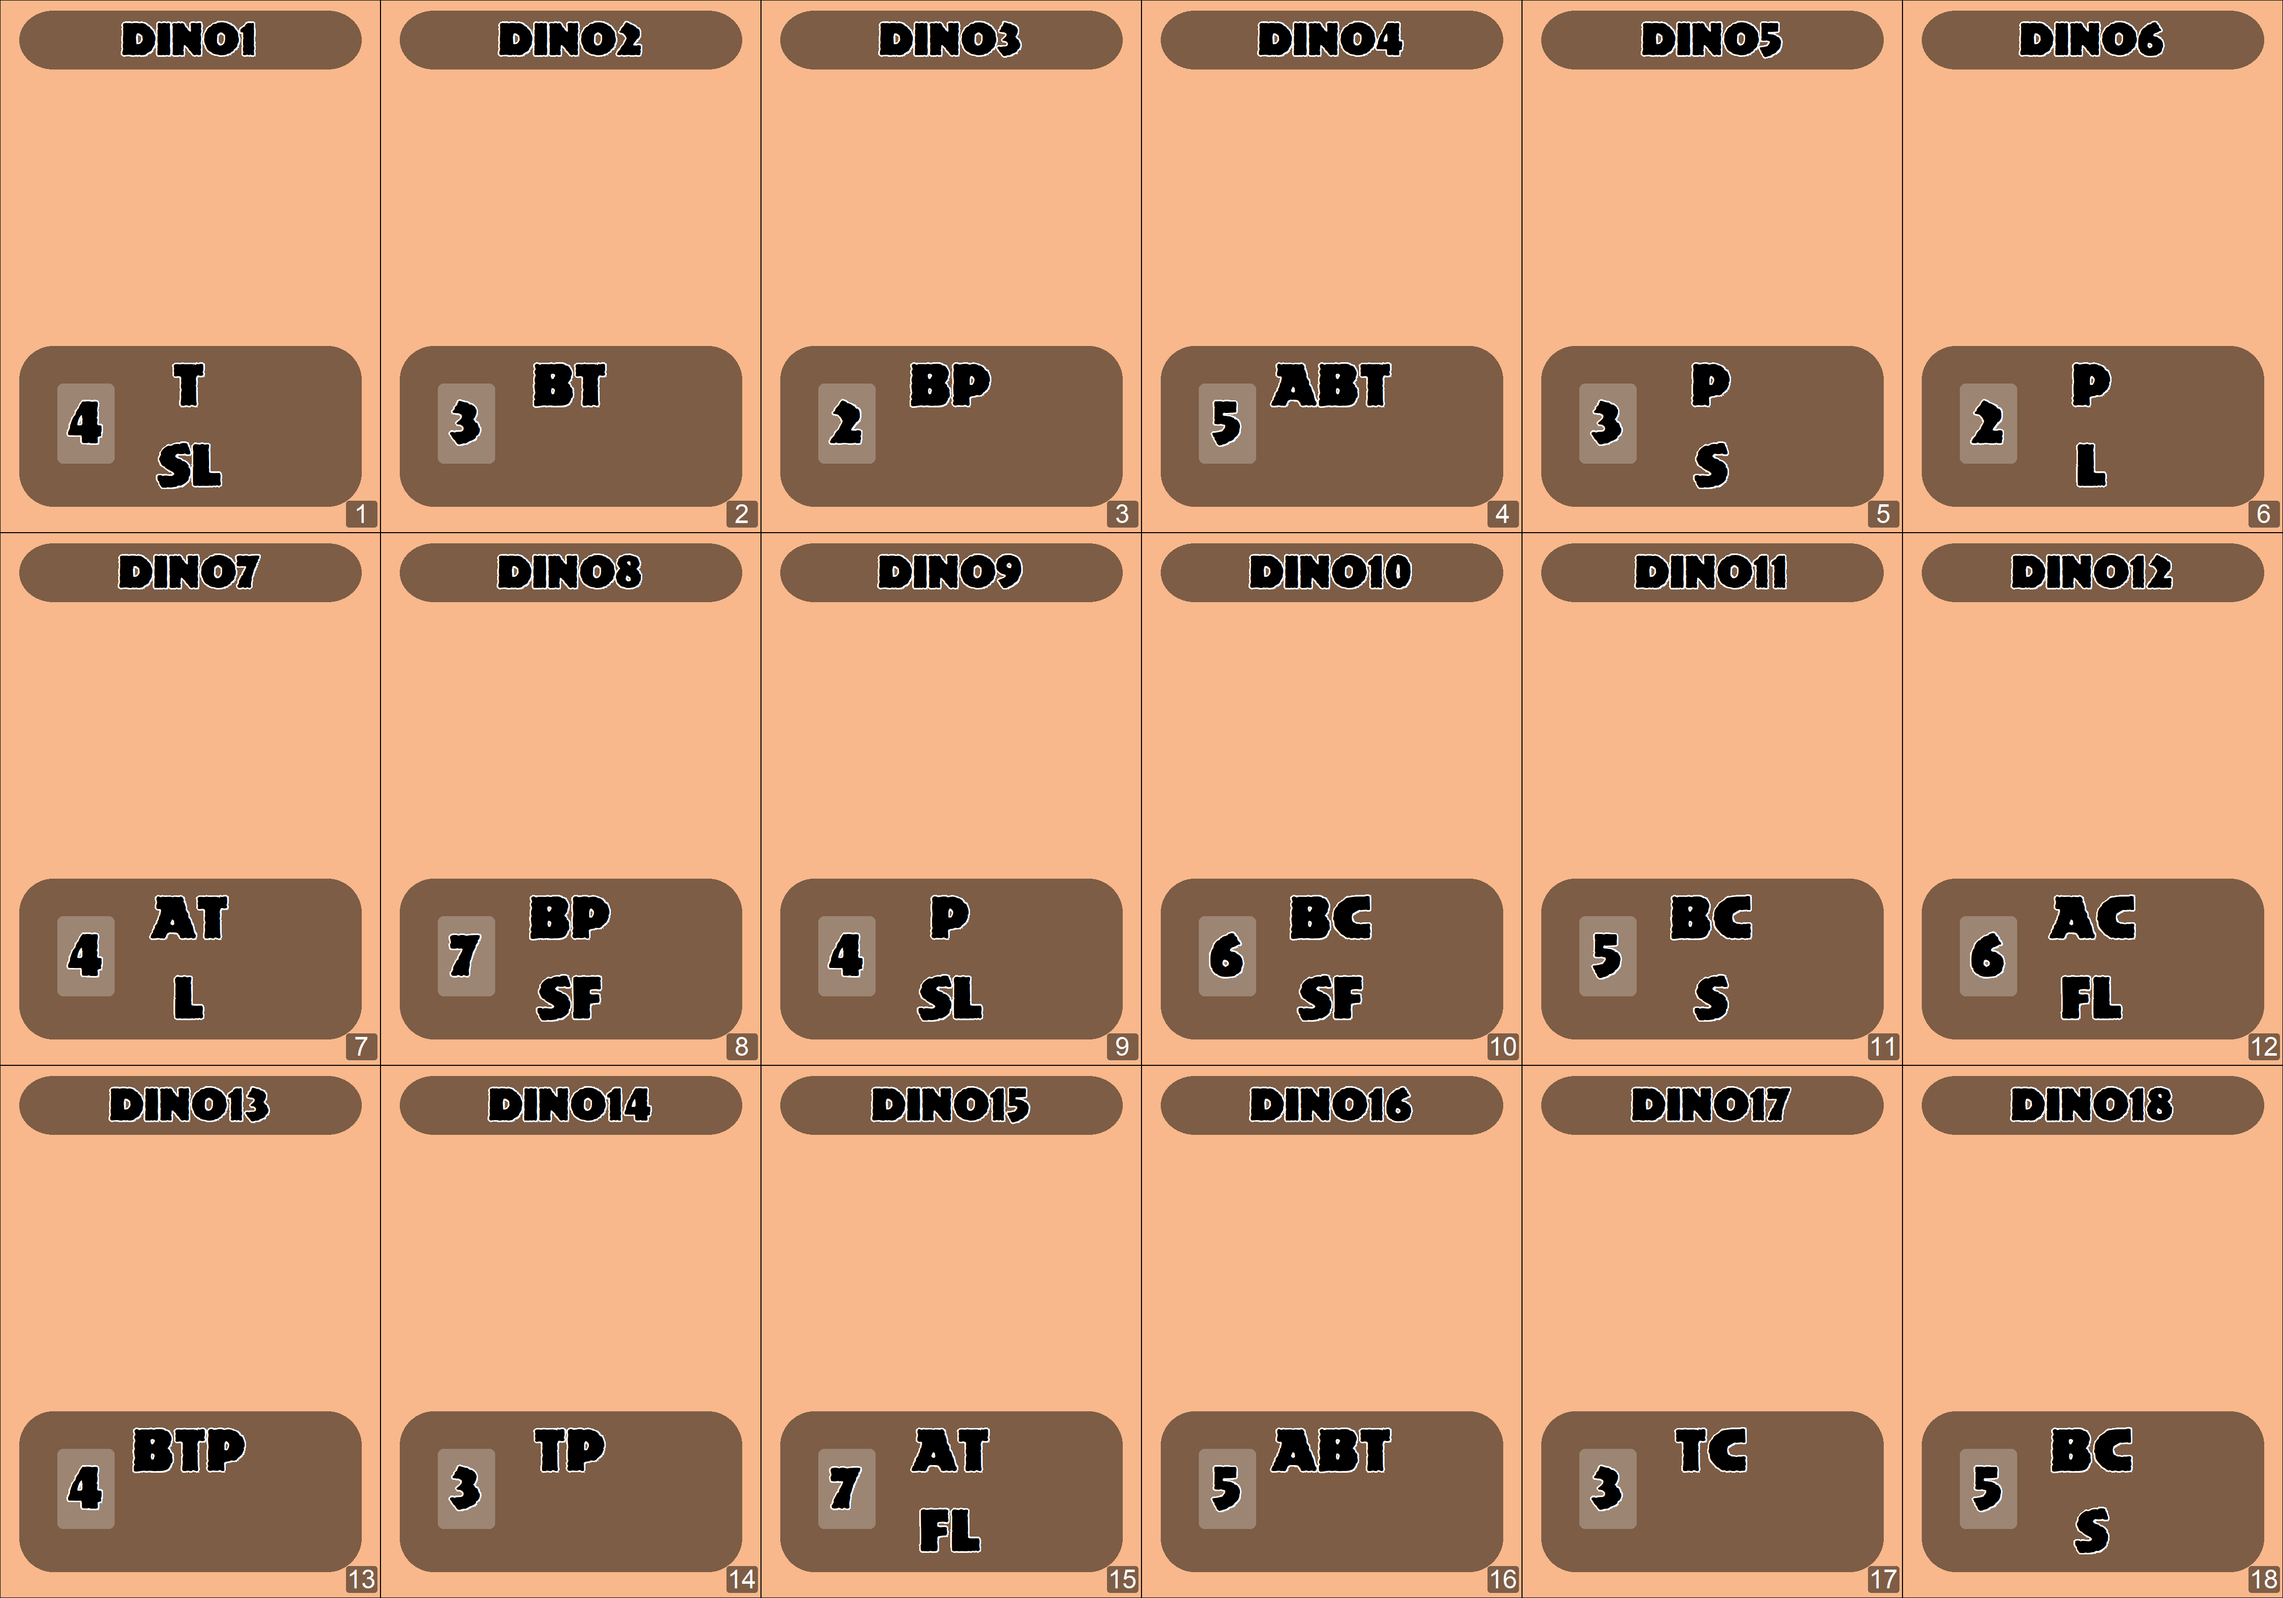
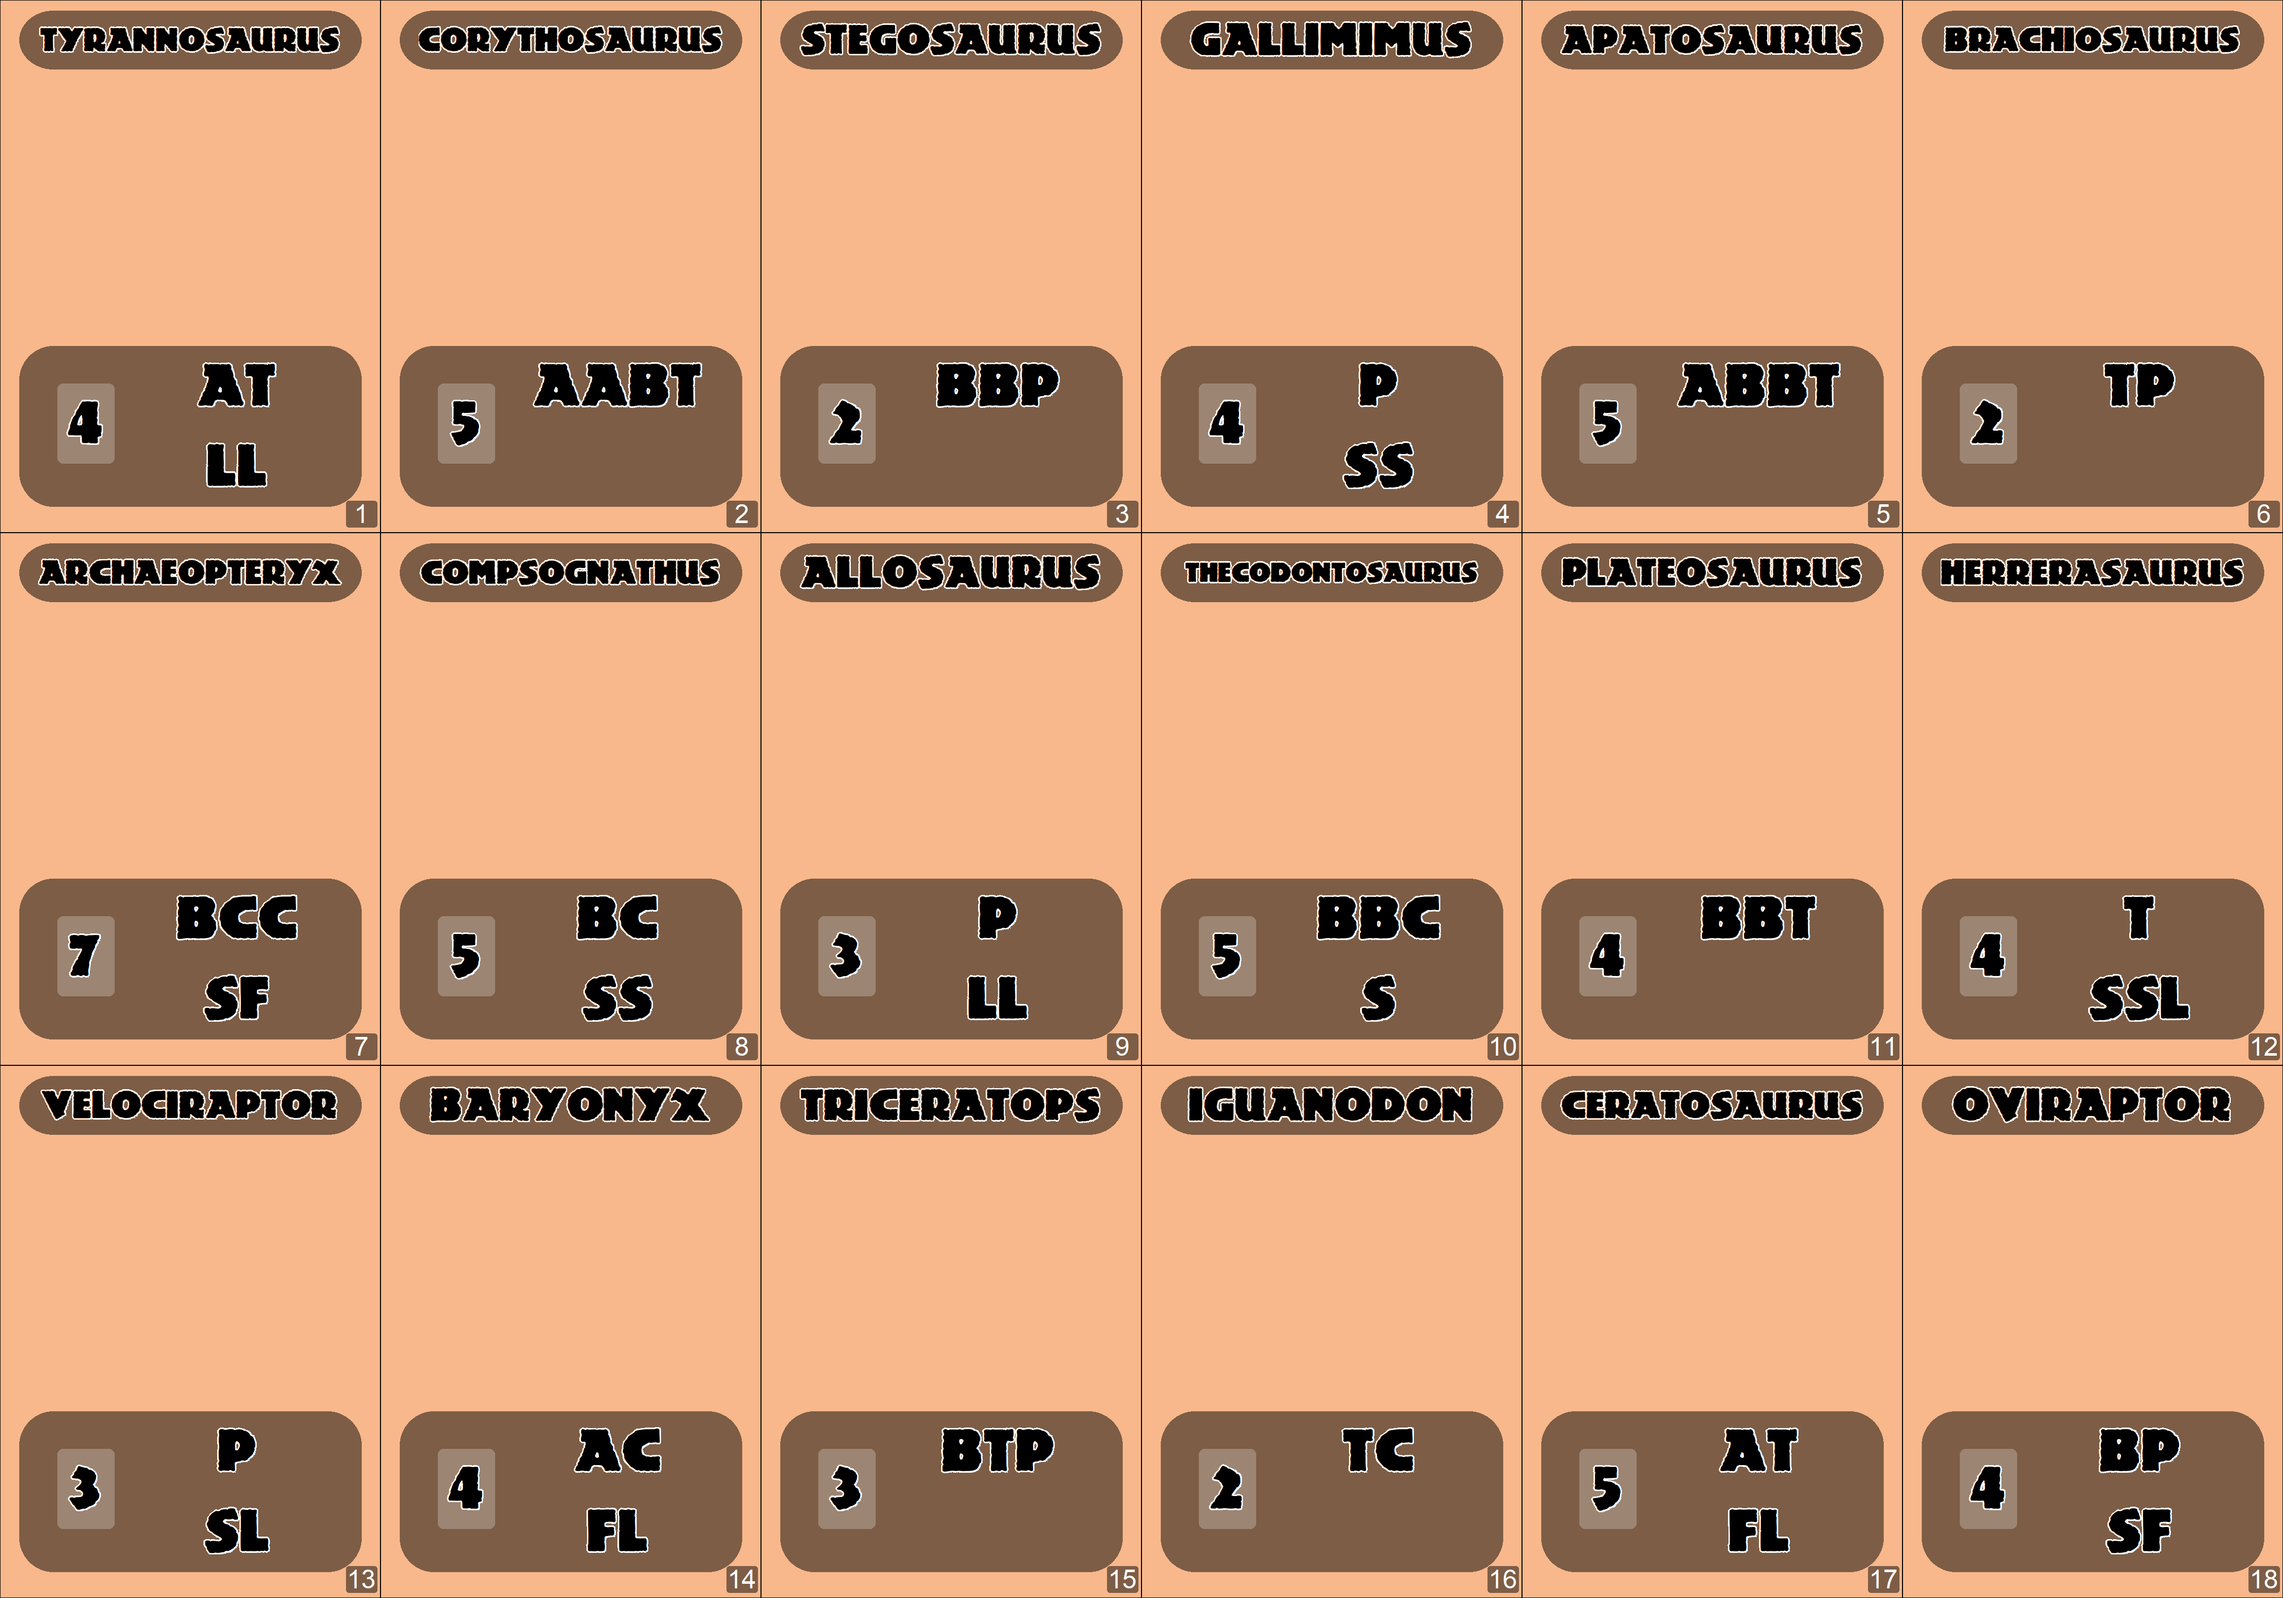
Big python changes * Dinos now have their names * Updated some dinos to have repeat trait requirements so all dinos require at least 2 cards * Setup some indexes for the dinos so they can be rearranged to match better with habit cards that don't conflict
* Made some changes in nanDECK to address the dino name and repeated traits
* Also output images of cards in 3x3 for print and play

* Created a draw.io diagram for the setup

diff --git a/dinocards.py b/dinocards.py
@@ -1,23 +1,121 @@
 CARDS = [
-    {"habitat":[0,1,0,1,0,1,1,0], "dino":[0,0,1,0,0,1,0,1]},
-    {"habitat":[0,0,0,1,0,1,1,0], "dino":[0,1,1,0,0,0,0,0]},
-    {"habitat":[1,0,1,0,0,1,0,1], "dino":[0,1,0,0,1,0,0,0]},
-    {"habitat":[0,1,0,0,1,0,0,1], "dino":[1,1,1,0,0,0,0,0]},
-    {"habitat":[0,1,0,0,1,0,0,1], "dino":[0,0,0,0,1,1,0,0]},
-    {"habitat":[1,1,0,0,0,1,1,1], "dino":[0,0,0,0,1,0,0,1]},
-    {"habitat":[1,1,1,0,0,1,0,1], "dino":[1,0,1,0,0,0,0,1]},
-    {"habitat":[0,0,1,0,0,1,0,1], "dino":[0,1,0,0,1,1,1,0]},
-    {"habitat":[1,1,0,0,0,1,0,0], "dino":[0,0,0,0,1,1,0,1]},
-    {"habitat":[1,0,0,0,0,0,1,1], "dino":[0,1,0,1,0,1,1,0]},
-    {"habitat":[1,0,0,1,0,1,1,0], "dino":[0,1,0,1,0,1,0,0]},
-    {"habitat":[0,1,0,0,1,0,0,1], "dino":[1,0,0,1,0,0,1,1]},
-    {"habitat":[0,1,0,1,0,1,1,0], "dino":[0,1,1,0,1,0,0,0]},
-    {"habitat":[0,0,1,0,0,1,0,1], "dino":[0,0,1,0,1,0,0,0]},
-    {"habitat":[0,0,1,0,0,1,0,1], "dino":[1,0,1,0,0,0,1,1]},
-    {"habitat":[0,1,0,0,1,0,0,1], "dino":[1,1,1,0,0,0,0,0]},
-    {"habitat":[0,1,0,0,1,1,0,0], "dino":[0,0,1,1,0,0,0,0]},
-    {"habitat":[1,0,1,0,0,1,0,1], "dino":[0,1,0,1,0,1,0,0]}
+    {"habitat":[0,1,0,1,0,1,1,0]},
+    {"habitat":[0,0,0,1,0,1,1,0]},
+    {"habitat":[1,0,1,0,0,1,0,1]},
+    {"habitat":[0,1,0,0,1,0,0,1]},
+    {"habitat":[0,1,0,0,1,0,0,1]},
+    {"habitat":[1,1,0,0,0,1,1,1]},
+    {"habitat":[1,1,1,0,0,1,0,1]},
+    {"habitat":[0,0,1,0,0,1,0,1]},
+    {"habitat":[1,1,0,0,0,1,0,0]},
+    {"habitat":[1,0,0,0,0,0,1,1]},
+    {"habitat":[1,0,0,1,0,1,1,0]},
+    {"habitat":[0,1,0,0,1,0,0,1]},
+    {"habitat":[0,1,0,1,0,1,1,0]},
+    {"habitat":[0,0,1,0,0,1,0,1]},
+    {"habitat":[0,0,1,0,0,1,0,1]},
+    {"habitat":[0,1,0,0,1,0,0,1]},
+    {"habitat":[0,1,0,0,1,1,0,0]},
+    {"habitat":[1,0,1,0,0,1,0,1]}
 ]
+
+DINO_CARD_TRAIT_REQUIREMENTS = [
+    [0,0,1,0,0,2,0,1],
+    [0,2,1,0,0,0,0,0],
+    [0,2,0,0,1,0,0,0],
+    [2,1,1,0,0,0,0,0],
+    [0,0,0,0,1,2,0,0],
+    [0,0,0,0,1,0,0,2],
+    [1,0,1,0,0,0,0,2],
+    [0,1,0,0,1,1,1,0],
+    [0,0,0,0,1,1,0,1],
+    [0,1,0,2,0,1,1,0],
+    [0,1,0,1,0,2,0,0],
+    [1,0,0,1,0,0,1,1],
+    [0,1,1,0,1,0,0,0],
+    [0,0,1,0,1,0,0,0],
+    [1,0,1,0,0,0,1,1],
+    [1,2,1,0,0,0,0,0],
+    [0,0,1,1,0,0,0,0],
+    [0,2,0,1,0,1,0,0]
+]
+
+def cardsConflictCount(dinoCardIndex, habitatCardIndex):
+    dinoCardTraits = DINO_CARD_TRAIT_REQUIREMENTS[dinoCardIndex]
+    habitatCardTraits = CARDS[habitatCardIndex]["habitat"]
+    conflictCount = 0
+    for traitIndex in range (len(dinoCardTraits)):
+        if dinoCardTraits[traitIndex] > 0 and habitatCardTraits[traitIndex] > 0:
+            conflictCount = conflictCount + 1
+    return conflictCount
+
+dinoConflicts = [
+    0,
+    0,
+    0,
+    0,
+    0,
+    0,
+    0,
+    0,
+    0,
+    0,
+    0,
+    0,
+    0,
+    0,
+    0,
+    0,
+    0,
+    0
+]
+
+DINO_NAMES = [
+    "Herrerasaurus",
+    "Plateosaurus",
+    "Stegosaurus",
+    "Corythosaurus",
+    "Gallimimus",
+    "Allosaurus",
+    "Tyrannosaurus",
+    "Oviraptor",
+    "Velociraptor",
+    "Archaeopteryx",
+    "Compsognathus",
+    "Baryonyx",
+    "Triceratops",
+    "Brachiosaurus",
+    "Ceratosaurus",
+    "Apatosaurus",
+    "Iguanodon",
+    "Thecodontosaurus"
+]
+
+# for each card, find the list of available cards that have no conflicts
+# find the cards with the fewest set of conflict free cards
+# from the cards among those, find the card with the most conflicts
+# assign to the first card that has no conflict with that card out of the cards with the fewest conflict free cards
+for habitatCardIndex in range(len(CARDS)):
+    print(habitatCardIndex, end = " - ")
+    for dinoCardIndex in range(len(DINO_CARD_TRAIT_REQUIREMENTS)):
+        if not cardsConflictCount(dinoCardIndex, habitatCardIndex):
+            print(dinoCardIndex, end = ",")
+        else:
+            dinoConflicts[dinoCardIndex] += 1
+    print("", end = "|")
+    for dinoCardIndex in range(len(DINO_CARD_TRAIT_REQUIREMENTS)):
+        if cardsConflictCount(dinoCardIndex, habitatCardIndex) == 1:
+            print(dinoCardIndex, end = ",")
+    print()
+
+for i in range(len(dinoConflicts)):
+    print("Conflicts for Dino " + str(i) + " - " + str(dinoConflicts[i]))
+
+HABITAT_DINO_INDEXES = [6,3,2,4,15,13,9,10,5,17,1,0,8,11,12,16,14,7]
+#[5,2,1,3,14,12,8,9,4,17,1,16,7,10,11,15,13,6]
+
+for cardIndex in range(len(CARDS)):
+    CARDS[cardIndex]["dino"] = DINO_CARD_TRAIT_REQUIREMENTS[HABITAT_DINO_INDEXES[cardIndex]]
 
 HABITAT_NAMES = [
     "Island",
@@ -121,7 +219,6 @@ cardIndexes = list(range(0,18))
 cardSolutions = []
 
 for card in cardIndexes:
-    print(card)
     solutions = []
     cardsAvailable = list(filter(lambda x: x != card, cardIndexes))
     currentSolution = []
@@ -130,35 +227,48 @@ for card in cardIndexes:
     cardSolutions.append(solutions)
 
 totalSolutions = 0
+cardSolutionsMinSolution = []
+cardSolutionsNumberSolution = []
 for i in range(len(cardSolutions)):
     card = cardSolutions[i]
     solutionCount = len(card)
+    cardSolutionsNumberSolution.append(solutionCount)
+    cardSolutionsMinSolution.append(len(min(card, key=len)))
     totalSolutions = totalSolutions + solutionCount
 
-totalCardsAverages = []
-totalSolutionsRatios = []
-totalSolutionsRatiosByMax = []
+maxNumberSolutions = max(cardSolutionsNumberSolution)
+
+totalCardsAverages = [] # average number of cards across all solutions for each card
+totalSolutionsRatios = [] # percentage of solutions each card uses out of all solutions for all cards
+totalSolutionsRatiosByMax = [] # The percentage relative to the max size set of solutions for each cards set of solutions
 for i in range(len(cardSolutions)):
     card = cardSolutions[i]
-    solutionCount = len(card)
+    solutionCount = cardSolutionsNumberSolution[i]
     totalCards = 0
     for solution in card:
         totalCards = totalCards + len(solution)
     print("For card : " + str(i) + " - " + str(totalCards / solutionCount) + " - " + str(solutionCount))
     totalCardsAverages.append(totalCards/solutionCount)
-    print(solutionCount/totalSolutions)
+    #print(solutionCount/totalSolutions)
+    print("    Min solution = " + str(cardSolutionsMinSolution[i]))
     totalSolutionsRatios.append(solutionCount/totalSolutions)
-    totalSolutionsRatiosByMax.append(1-solutionCount/527)
+    totalSolutionsRatiosByMax.append(solutionCount/maxNumberSolutions)
 
 totalCardsAverage = 0
 for average in totalCardsAverages:
     totalCardsAverage = totalCardsAverage + average
 totalCardsAverage = totalCardsAverage / 18
 print(totalCardsAverages)
-print(totalSolutionsRatios)
+#print(totalSolutionsRatios)
+
+bonusPercent = 50
+cardValues = []
 for i in range(len(totalCardsAverages)):
-    solutionRatioScale = 1 + (totalSolutionsRatiosByMax[i]**2)
-    print(round((totalCardsAverages[i] / totalCardsAverage) * totalCardsAverages[i] * solutionRatioScale))
+    solutionRatioScale = 1 + (bonusPercent * (1-totalSolutionsRatiosByMax[i])) / 100
+    relativeAverageScale = (totalCardsAverages[i] / totalCardsAverage)
+    cardValue = round(totalCardsAverages[i] * relativeAverageScale * solutionRatioScale)
+    cardValues.append(cardValue)
+    print(str(cardValue) + " - " + str(totalCardsAverages[i]))
 
 resource_A = 0
 resource_B = 1
@@ -201,10 +311,11 @@ for cardIndex in range(len(CARDS)):
     print(",", end = "")
 
     # dinosaur name
-    dino = card["dino"]
-    print("Dino" + str(cardIndex+1), end =",")
+    #print("Dino" + str(cardIndex+1), end =",")
+    print(DINO_NAMES[HABITAT_DINO_INDEXES[cardIndex]], end = ",")
 
     # dinosaur environment trait requirements
+    dino = card["dino"]
     for traitIndex in range(5):
     	for i in range(dino[traitIndex]):
     	   print(resourceLetters[traitIndex], end = "")
@@ -217,6 +328,5 @@ for cardIndex in range(len(CARDS)):
     print(",", end = "")
 
     # dinosaur point value
-    solutionRatioScale = 1 + (totalSolutionsRatiosByMax[i]**2)
-    print(round((totalCardsAverages[cardIndex] / totalCardsAverage) * totalCardsAverages[cardIndex] * solutionRatioScale))
+    print(cardValues[cardIndex])
 
